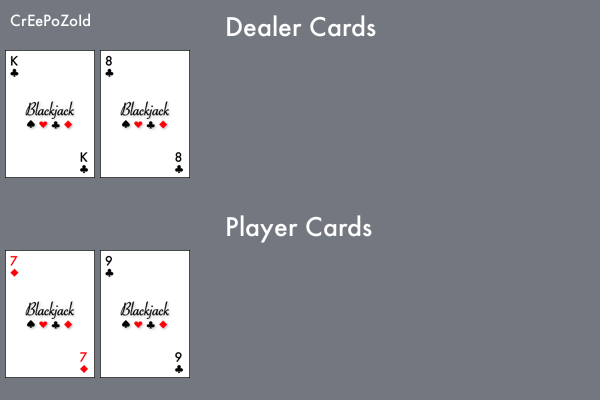
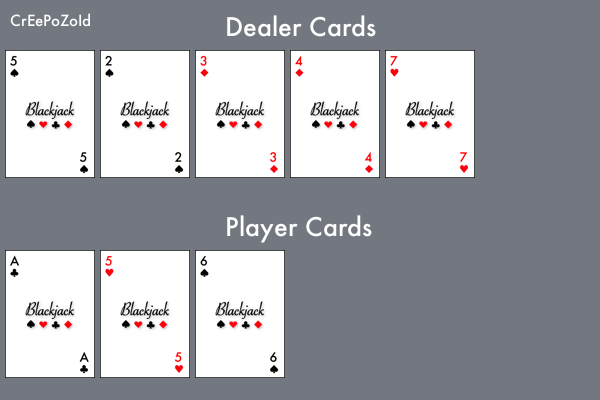
bug fixes and doubles

diff --git a/bot.py b/bot.py
@@ -5,7 +5,6 @@ from dotenv import load_dotenv
 import blackjack as bljack
 import db
 import genImage
-from PIL import Image
 
 load_dotenv()
 cwd = os.getcwd()
@@ -46,28 +45,34 @@ async def on_message(message):
 async def balance(ctx):
     userId = ctx.author.id
     money = db.getMoney(userId)
-    if money == None or money <= 0:
+    try:
+        if money == None or money <= 0:
+            await ctx.send("It looks like you dont have any money.\nGet some more with **.broke!**")
+        else:
+            await ctx.send(f'<@{userId}> has ${money}')
+    except:
         await ctx.send("It looks like you dont have any money.\nGet some more with **.broke!**")
-    else:
-        await ctx.send(f'<@{userId}> has ${money}')
 
 @client.command(aliases=["bankrupt"])
 async def broke(ctx):
     userId = ctx.author.id
     money = db.getMoney(userId)
 
-    if money == None or money <= 0:
+    try:
+        if money == None or money <= 0:
+            db.updateMoney(userId, 100)
+            await ctx.send("Here's $100 on me!\nSpend it wisely!")
+        else:
+            await ctx.send(f'<@{userId}>, you have too much money to use that command!')
+    except:
         db.updateMoney(userId, 100)
         await ctx.send("Here's $100 on me!\nSpend it wisely!")
-    else:
-        await ctx.send(f'<@{userId}>, you have too much money to use that command!')
 
 @client.command(aliases=["bj"])
 async def blackjack(ctx, *args):
     userId = ctx.author.id
     userName = ctx.author.name
     userData = db.findById(userId)
-    bet = userData["betAmount"]
     gameActive = False
     
     if len(args) == 0:
@@ -97,6 +102,8 @@ async def blackjack(ctx, *args):
             db.ins(userId, [], [], False, [], None)
             userData = db.findById(userId)
 
+        bet = userData["betAmount"]
+
         if action == "new":
             if len(args) < 2:
                 await ctx.send("You must include an amount to bet!")
@@ -107,7 +114,7 @@ async def blackjack(ctx, *args):
                 await ctx.send(f"You do not have enought money in your account to make that bet!")
             else:
                 db.updateMoney(userId, money - bet)
-                await ctx.send(f"Starting new hand with bet ${bet}")
+                await ctx.send(f"Starting new hand with bet ${bet}\nPlay with either **.blackjack hit** or **.blackjack stand**")
 
             try:
                 deck = userData["deck"]
@@ -122,6 +129,19 @@ async def blackjack(ctx, *args):
                 userData = db.findById(userId)
             except:
                 await ctx.send("Error: something went wrong")
+                
+            if len(playerHand) == 0: # first turn
+                    if len(deck) < 4: #if deck empty refill
+                        bljack.fillDeck(deck)
+                        bljack.shuffleDeck(deck)
+                        await ctx.send("Deck shuffled!")
+                    playerHand.append(bljack.getCard(deck))
+                    dealerHand.append(bljack.getCard(deck))
+                    playerHand.append(bljack.getCard(deck))
+                    dealerHand.append(bljack.getCard(deck))
+                    db.ins(userId, playerHand, dealerHand, gameActive, deck, bet)
+                    await sendImage(ctx, genImage.make_table(playerHand, dealerHand, userName, True))
+
         else:
             deck = userData["deck"]
             playerHand = userData["userCards"]
@@ -136,28 +156,16 @@ async def blackjack(ctx, *args):
             #################
             # Player Action #
             #################
-            if action == "hit":
+            if action in ["hit", "h"]:
                 if not gameActive:
                     await ctx.send("**You have no active blackjack hand!**\nTry ```.blackjack new BET_AMOUNT``` to start a new one!")
                     return 0
                 await ctx.send(f"<@{userId}> requested a hit!")
                 
-                if len(playerHand) == 0: # first turn
-                    if len(deck) < 4: #if deck empty refill
-                        bljack.fillDeck(deck)
-                        bljack.shuffleDeck(deck)
-                        await ctx.send("Deck shuffled!")
-                    playerHand.append(bljack.getCard(deck))
-                    dealerHand.append(bljack.getCard(deck))
-                    playerHand.append(bljack.getCard(deck))
-                    dealerHand.append(bljack.getCard(deck))
-                    db.ins(userId, playerHand, dealerHand, gameActive, deck, bet)
-                else:
-                    playerHand.append(bljack.getCard(deck))
-                    db.ins(userId, playerHand, dealerHand, gameActive, deck, bet)
+                playerHand.append(bljack.getCard(deck))
+                db.ins(userId, playerHand, dealerHand, gameActive, deck, bet)
                 await sendImage(ctx, genImage.make_table(playerHand, dealerHand, userName, True))
-
-            elif action == "stand":
+            elif action in ["stand", "s"]:
                 if not gameActive:
                     await ctx.send("**You have no active blackjack hand!**\nTry ```.blackjack new BET_AMOUNT``` to start a new one!")
                     return 0
@@ -173,7 +181,17 @@ async def blackjack(ctx, *args):
                 if not gameActive:
                     await ctx.send("**You have no active blackjack hand!**\nTry ```.blackjack new BET_AMOUNT``` to start a new one!")
                     return 0
-                pass
+                if len(playerHand) == 2: # first cards
+                    bet = userData["betAmount"]
+                    money = db.getMoney(userId)
+                    if bet > money:
+                        await ctx.send(f"You do not have enought money in your account to make that bet!")
+                    else:
+                        db.updateMoney(userId, money - bet)
+                        playerHand.append(bljack.getCard(deck))
+                        db.ins(userId, playerHand, dealerHand, gameActive, deck, bet*2)
+                        await ctx.send(f"<@{userId}> requested to double down!")
+                        gameActive = False
             else:
                 await ctx.send("That action is not recognized.")
                 return 0

diff --git a/db.py b/db.py
@@ -68,4 +68,8 @@ def getMoney(userId):
         "userId": userId,
     }
     money = monDB.find_one(dict, {'_id': False, 'money': True})
-    return money["money"]
+    try:
+        return money["money"]
+    except:
+        print("Error: Money not found")
+        return None
